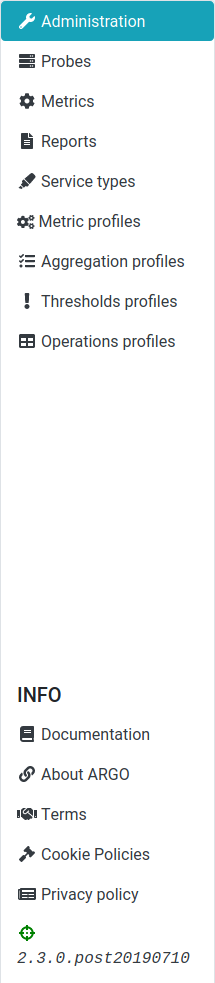
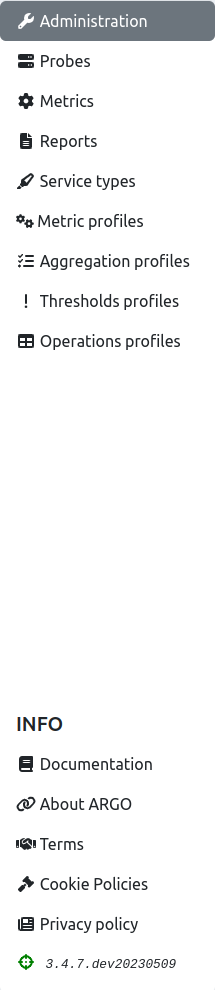
Update User interface documentation in tenant POEM

Changed region(s): [[0.0, 0.0, 1.0, 1.0], [0.0558, 0.7019, 0.893, 1.0], [0.3349, 0.9766, 0.3628, 1.0]]

diff --git a/doc/v1/docs/tenant_ui.md b/doc/v1/docs/tenant_ui.md
@@ -6,7 +6,7 @@ User interface is slightly different for tenant user and tenant admin user.
 
 When tenant admin user (for tenant POEM, not to be mistaken for super admin user for SuperAdmin POEM) logs into POEM, (s)he is redirected to [administration page](tenant_administration.md).
 
-On the side bar (shown in the figure below), one may access the other POEM pages: [probes](tenant_probes.md), [metrics](tenant_metrics.md), [reports](tenant_reports.md), [service types](tenant_servicetypes.md), [metric profiles](tenant_metric_profiles.md), [aggregation profiles](tenant_aggregation_profiles.md), [thresholds profiles](tenant_thresholds_profiles.md), and [operations profiles](tenant_operations_profiles.md).
+On the side menu (shown in the figure below), one may access the other POEM pages: [probes](tenant_probes.md), [metrics](tenant_metrics.md), [reports](tenant_reports.md), [service types](tenant_servicetypes.md), [metric profiles](tenant_metric_profiles.md), [aggregation profiles](tenant_aggregation_profiles.md), [thresholds profiles](tenant_thresholds_profiles.md), and [operations profiles](tenant_operations_profiles.md).
 
 ![Tenant Admin Sidebar](figures/tenant_sidebar.png)
 
@@ -14,7 +14,7 @@ On the top bar (shown in the figure below), there are ARGO logo, welcome message
 
 ![Tenant Admin Top Bar](figures/tenant_topbar.png)
 
-By hovering over his/her name, user may see his/her details: user type (tenant user, or tenant admin user), and his/her email address.
+By clicking his/her name, user may see his/her details: user type (tenant user, or tenant admin user), and his/her email address.
 
 ![Tenant Admin Hover Info](figures/tenant_hover_tenant_admin.png)
 
@@ -27,8 +27,8 @@ The sidebar for tenant users (shown in the figure below) is, therefore, somewhat
 
 ![Tenant Sidebar](figures/tenant_tenant_sidebar.png)
 
-Top bar looks the same as for admin user. The difference is in hover info. When the user hovers over his/her name, the info shown (figure below) is: user type (tenant user, or tenant admin), groups of resources associated to him/her, and his/her email address.
+Top bar looks the same as for admin user. The difference is in user info. When the user clicks his/her name, the info shown (figure below) is: user type (tenant user, or tenant admin), groups of resources associated to him/her, and his/her email address.
 
 ![Tenant Hover Info](figures/tenant_user_hover_tenant.png)
 
-In this example, the user is assigned `TEST` group of aggregations, `EUDAT` group of metrics, `SECMON` group of metric profiles, and none of the groups of thresholds profiles.
+In this example, the user is assigned `AR` group of reports, `TEST` group of aggregations, `EUDAT` group of metrics, `SECMON` group of metric profiles, and none of the groups of thresholds profiles.
